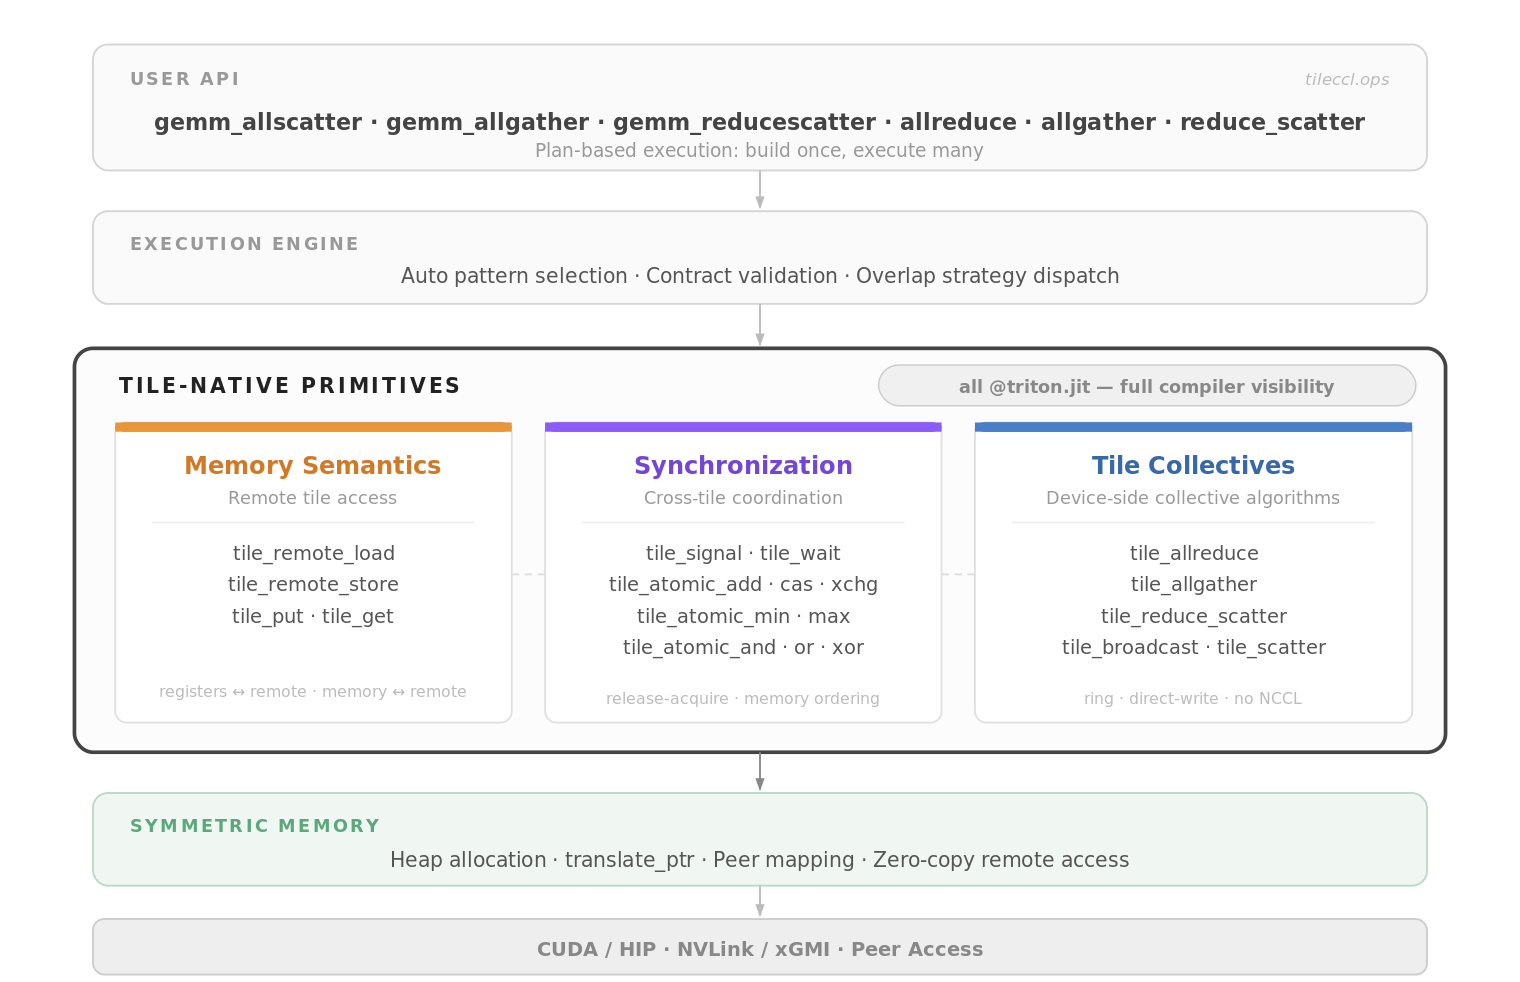
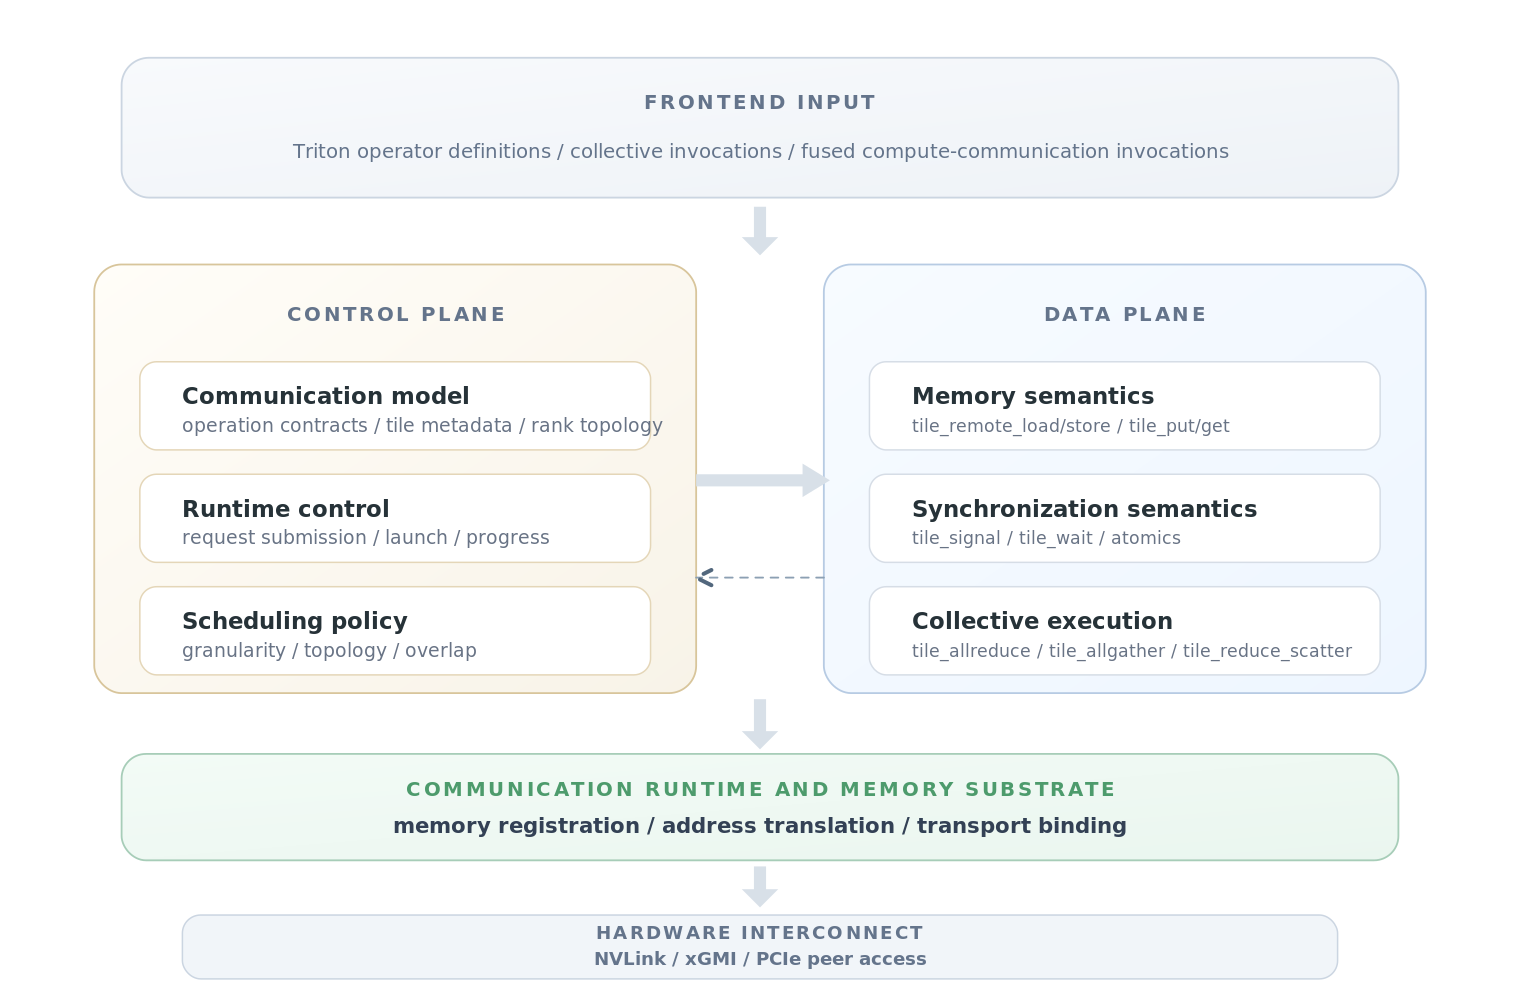
Update README and architecture diagrams; add temp directory to .gitignore
- Removed the detailed repository layout section from README.md to streamline content.
- Updated terminology in README.md for clarity and consistency regarding TileGroup-based overlap.
- Added a new SVG diagram (TileCCL-architecture.backup.svg) to illustrate the architecture.
- Updated the existing TileCCL architecture SVG to enhance visual representation and clarity.
- Added 'temp/' directory to .gitignore to prevent temporary files from being tracked.

diff --git a/README.md b/README.md
@@ -27,31 +27,6 @@ TileCCL is a tile-native collective communication library for expressing cross-G
   </table>
 </div>
 
-## Repository Layout
-
-```text
-TileCCL/
-├── tileccl/                 # Public library package
-│   ├── memory/              # Symmetric heap, peer mapping, pointer translation
-│   ├── primitives/          # Triton tile movement, synchronization, collectives
-│   ├── patterns/            # Compute-communication overlap strategies
-│   ├── kernels/             # GEMM and fused kernel entry points
-│   └── ops.py               # Public operator-level APIs
-├── tileccl_v2/              # TileGroup proof/runtime seed
-│   ├── heap.py              # CUDA IPC symmetric heap
-│   ├── ipc.py               # Pointer translation, signal/wait, P2P primitives
-│   ├── tile_group.py        # TileGroup planning
-│   ├── wg.py                # Compute/communication workgroup allocation
-│   ├── collective_spec.py   # AllGather/ReduceScatter semantics
-│   ├── signal.py            # TileGroup signal tensor layout
-│   ├── transport.py         # P2P transport planning
-│   ├── cost_model.py        # Tile-native communication cost model
-│   └── runtime/timeline.py  # Timeline artifact recorder
-├── examples/                # Single-process, multiprocess, benchmark examples
-├── tests/                   # Smoke tests
-├── assets/                  # Architecture and dataflow diagrams
-└── images/logo/             # Institution logos
-```
 
 ## TileCCL Architecture
 
@@ -74,19 +49,13 @@ TileCCL/
 
 **Hardware Substrate** — TileCCL runs on GPU backends and interconnect-capable peer-memory paths underneath the symmetric-memory layer, providing the transport foundation for tile-native communication.
 
+## TileGroup-Based Overlap
 
+TileGroup is the granularity TileCCL uses to overlap GEMM output with communication. Instead of waiting for a whole tensor, ready tiles are grouped into transfer-efficient units and sent as soon as their producer work completes.
 
-## Key Feature: TileGroup-Based Overlap
-
-TileCCL targets synchronization bubbles created by traditional tensor-level or chunk-level collectives, where downstream compute often waits for a large communication unit even when only a small part of the result is needed next.
-
-Instead of treating a collective as a monolithic operation around a full tensor, TileCCL makes communication readiness follow the producer and consumer tile schedule. GEMM output can be exposed, grouped, transferred, and consumed as soon as the relevant work is ready, allowing communication to overlap with computation at a finer granularity.
-
-GEMM produces tiles. The TileGroup builder, driven by a cost model, groups them into physically sized units. Compute and communication workgroups can then run concurrently in a single persistent kernel: compute produces and signals, while communication polls barriers and pushes ready groups to peers via CUDA IPC.
-
-- **Minimal GEMM intrusion** — TileGroup readiness can be exposed at the epilogue boundary with lightweight signaling.
-- **Physics-driven grouping** — P2P saturation, wave alignment, and pipeline balance determine TileGroup boundaries.
-- **Device-side P2P transport** — Ready TileGroups are pushed to peer GPUs via CUDA IPC without routing through NCCL or NVSHMEM collectives.
+- **Balanced granularity** — TileGroups sit between tile-by-tile transfer and bulk tensor transfer.
+- **Cost-model planning** — P2P saturation, wave alignment, and pipeline balance guide group boundaries.
+- **Device-side progress** — Compute workgroups signal ready groups while communication workgroups move them through peer memory.
 
 ### Data Flow
 
@@ -94,7 +63,7 @@ GEMM produces tiles. The TileGroup builder, driven by a cost model, groups them 
   <img src="assets/TileCCL-dataflow-comparison.png" width="760" alt="TileCCL Data Flow"/>
 </p>
 
-TileCCL compares three communication granularities: bulk tensor transfer, per-tile transfer, and TileGroup transfer. TileGroup sits between the extremes by assembling tiles into transfer-efficient groups while keeping readiness aligned with the compute schedule.
+TileCCL compares three communication granularities: bulk tensor transfer, tile-by-tile transfer, and TileGroup transfer. TileGroup sits between the extremes by assembling tiles into transfer-efficient groups while keeping readiness aligned with the compute schedule.
 
 ## Preliminary Results
 
@@ -102,7 +71,7 @@ These v5 proof results were collected on 2x NVIDIA H100 GPUs with NVLink peer ac
 
 ### Gate 1: GEMM-Output AllGather
 
-| Shape MxNxK | S0 Bulk | S1 per tile | S2 TileCCL | vs S1 | vs S0 |
+| Shape MxNxK | S0 Bulk | S1 tile-by-tile | S2 TileCCL | vs S1 | vs S0 |
 |:---|---:|---:|---:|---:|---:|
 | 16384x4096x1024 | 1.242 ms | 1.167 ms | 0.801 ms | **1.46x** | **1.55x** |
 | 8192x4096x2048 | 0.901 ms | 0.757 ms | 0.639 ms | **1.18x** | **1.41x** |
@@ -110,7 +79,7 @@ These v5 proof results were collected on 2x NVIDIA H100 GPUs with NVLink peer ac
 
 ### Gate 2: GEMM to ReduceScatter
 
-| Shape MxNxK_total | S0 Bulk | S1 per tile | S2 TileCCL | vs S1 | vs S0 |
+| Shape MxNxK_total | S0 Bulk | S1 tile-by-tile | S2 TileCCL | vs S1 | vs S0 |
 |:---|---:|---:|---:|---:|---:|
 | 16384x4096x2048 | 1.640 ms | 1.091 ms | 0.965 ms | **1.13x** | **1.70x** |
 | 8192x4096x4096 | 1.130 ms | 0.757 ms | 0.769 ms | 0.99x | **1.47x** |
